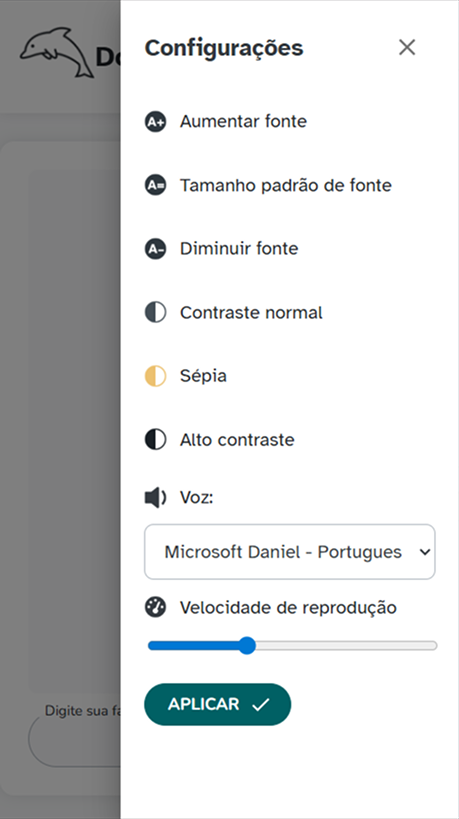
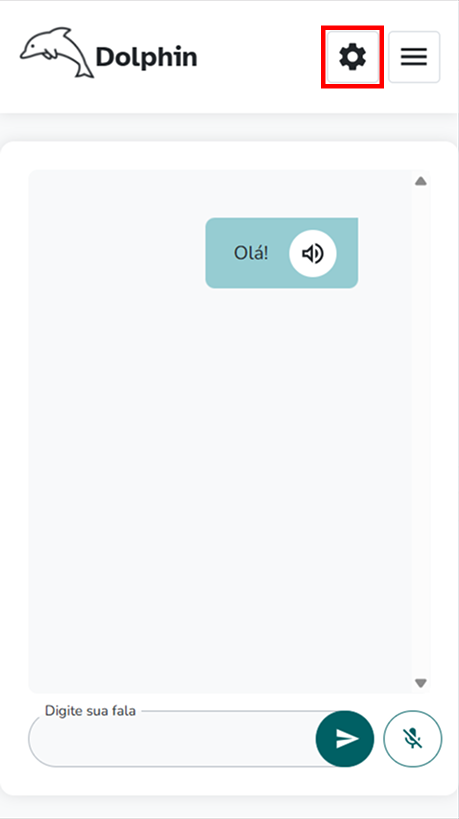
Finalização do manual

diff --git a/manual/index.html b/manual/index.html
@@ -65,25 +65,25 @@
             </div>
         </nav>
 
-        <div class="branding docs-branding">
-            <div class="container-fluid position-relative py-3">
-                <div class="docs-logo-wrapper">
-                    <button id="docs-sidebar-toggler" class="docs-sidebar-toggler docs-sidebar-visible me-2 d-xl-none" type="button">
+        <div class="branding docs-branding position-relative">
+            <div class="container-fluid py-3 d-flex flex-row align-items-center">
+                <div>
+                    <button id="docs-sidebar-toggler" class="docs-sidebar-toggler docs-sidebar-visible me-3 d-xl-none" type="button">
                         <span></span>
                         <span></span>
                         <span></span>
                         <span class="sr-only">Expandir</span>
                     </button>
                 </div>
+                <div class="site-logo align-items-start">
+                    <a class="navbar-brand" href="../">
+                        <img class="logo-icon me-2" src="../img/dolphin.png" width="85px" alt="logomarca do Dolphin em formato de um golfinho">
+                        <span class="h4">Dolphin</span>
+                    </a>
+                </div>
                 <!--//docs-logo-wrapper-->
-                <div class="docs-top-utilities d-flex justify-content-end align-items-center">
+                <div class="docs-top-utilities d-flex justify-content-end align-items-center ms-auto">
                     <!-- <a href="index.html" class="btn btn-secondary d-none d-lg-flex">Voltar para homepage</a> -->
-                    <div class="site-logo align-items-start">
-                        <a class="navbar-brand" href="../">
-                            <img class="logo-icon me-2" src="../img/dolphin.png" width="85px" alt="logomarca do Dolphin em formato de um golfinho">
-                            <span class="h4">Dolphin</span>
-                        </a>
-                    </div>
                     <div class="ms-auto">
                         <a href="/dolphin/dolphin/index.html" class=" ms-3 btn btn-primary d-none d-lg-flex btn-goto-dolphin">Acessar o Dolphin
                             <svg xmlns="http://www.w3.org/2000/svg" width="24" height="24" viewBox="0 0 24 24" fill="none" stroke="currentColor" stroke-width="2" stroke-linecap="round" stroke-linejoin="round" class="feather feather-arrow-right ms-2"><line x1="5" y1="12" x2="19" y2="12"></line><polyline points="12 5 19 12 12 19"></polyline></svg>
@@ -159,7 +159,7 @@
             <h1 class="sr-only">Dolphin - Manuais</h1>
             <article class="docs-article" id="section-1">
                 <header class="docs-header">
-                    <h2 class="docs-heading">Introdução <span class="docs-time">Última atualização: 12/03/2026</span></h2>
+                    <h2 class="docs-heading">Introdução <span class="docs-time">Última atualização: 06/04/2026</span></h2>
                     <section class="docs-intro">
                         <p class="lead-text2">A Ferramenta de comunicação Dolphin foi desenvolvida pelo Centro Tecnológico de Acessibilidade (CTA) com o objetivo de auxiliar pessoas que tenham alguma dificuldade na fala e/ou na audição. A ferramenta possibilita que a pessoa 
                             digite em seu teclado o que deseja comunicar e, ao clicar na opção de “Enviar” da ferramenta, ela irá vocalizar a palavra, frase ou número escrito. Além disso, é possível que a pessoa utilize o botão "Enviar fala" para falar e o que for dito 
@@ -182,51 +182,51 @@
                 </header>
                 <section class="docs-section" id="item-2-1">
                     <h3 class="section-heading">Instalando em Android</h3>
-                    <p class="base-text2">Após acessar a ferramenta em seu dispositivo, clique nos três pontinhos localizados no canto superior direito da barra de navegação conforme a imagem a seguir.</p>
-                    <img src="../img/install-01.png " alt="Dolphin com o menu de três pontinhos marcado " class="img-fluid img-thumbnail ounded mx-auto d-block imginstall ">
+                    <p class="base-text2">Após acessar a ferramenta em seu dispositivo, clique nos três pontinhos localizados no canto superior direito da barra de navegação, conforme a imagem a seguir.</p>
+                    <img src="../img/install-01.png " alt="Dolphin com o menu de três pontinhos marcado " class="img-fluid img-thumbnail ounded mx-auto d-block " width="300px">
                 </section>
                 <!--//section-->
 
                 <section>
                     <p class="base-text2">Após, procure a opção <strong>“Instalar Aplicativo”</strong> ou <strong>“Adicionar à tela inicial”</strong>, conforme mostra a próxima imagem.</p>
-                    <img src="../img/install-02.png " alt="Dolphin com o menu aberto e a opção 'Instalar aplicativo' marcada " class="img-fluid img-thumbnail ounded mx-auto d-block imginstall ">
+                    <img src="../img/install-02.png " alt="Dolphin com o menu aberto e a opção 'Adicionar à tela inicial' marcada " class="img-fluid img-thumbnail ounded mx-auto d-block " width="300px">
                 </section>
                 <!--//section-->
 
                 <section>
                     <p class="base-text2">Ao clicar nesta opção, aparecerá uma janela solicitando a instalação da ferramenta, mostrada na imagem a seguir. Clique em <strong>“Instalar”</strong> e aguarde a finalização do processo.</p>
-                    <img src="../img/install-03.png " alt="Mensagem solicitando se o usuário deseja instalar o Dolphin " class="img-fluid img-thumbnail ounded mx-auto d-block imginstall ">
+                    <img src="../img/install-03.png " alt="Mensagem solicitando se o usuário deseja instalar o Dolphin " class="img-fluid img-thumbnail ounded mx-auto d-block " width="300px">
                 </section>
                 <!--//section-->
 
                 <section>
-                    <p class="base-text2">Pronto! A ferramenta de comunicação Dolphin já está instalada no seu smartphone. Para abrí-lo basta ir até a lista de aplicativos do dispositivo e clicar no ícone do <strong>Dolphin</strong>.</p>
-                    <img src="../img/install-04.png " alt="Menu do celular com o ícone do aplicativo Dolphin instalado " class="img-fluid img-thumbnail ounded mx-auto d-block imginstall ">
+                    <p class="base-text2">Pronto! A ferramenta de comunicação Dolphin já está instalada no seu smartphone. Para abrí-lo, basta ir até a lista de aplicativos do dispositivo e clicar no ícone do <strong>Dolphin</strong>.</p>
+                    <img src="../img/install-04.png " alt="Menu do celular com o ícone do aplicativo Dolphin instalado " class="img-fluid img-thumbnail ounded mx-auto d-block " width="300px">
                 </section>
                 <!--//section-->
 
                 <section class="docs-section" id="item-2-2">
                     <h3 class="section-heading">Instalando em iOS</h3>
-                    <p class="base-text2">Após acessar a ferramenta em seu dispositivo, por meio do safari, clique na seta (<i class="fa-solid fa-arrow-up-from-bracket"></i>) localizada no canto superior direito da barra de navegação conforme a imagem a seguir.</p>
-                    <img src="../img/install-05.jpeg " alt="Dolphin com o menu a seta marcada" class="img-fluid img-thumbnail ounded mx-auto d-block imginstall" style="width: 500px; height: 618px;">
+                    <p class="base-text2">Após acessar a ferramenta em seu dispositivo, por meio do Safari, clique na seta (<i class="fa-solid fa-arrow-up-from-bracket"></i>) localizada no canto inferior da barra de navegação, conforme a imagem a seguir.</p>
+                    <img src="../img/install-05.png " alt="Dolphin com o menu a seta marcada" class="img-fluid img-thumbnail ounded mx-auto d-block" width="300px">
                 </section>
                 <!--//section-->
 
                 <section>
-                    <p class="base-text2">Após, procure a opção “Adicionar a Tela de Início”, conforme mostra a próxima imagem.</p>
-                    <img src="../img/install-06.jpeg " alt="Dolphin com o menu aberto e a opção 'Adicionar a Tela de Início' marcada " class="img-fluid img-thumbnail ounded mx-auto d-block imginstall " style="width: 500px; height: 618px;">
+                    <p class="base-text2">Após, procure a opção <strong>“Adicionar à Tela de Início”</strong>, conforme mostra a próxima imagem.</p>
+                    <img src="../img/install-06.png " alt="Dolphin com o menu aberto e a opção 'Adicionar a Tela de Início' marcada " class="img-fluid img-thumbnail ounded mx-auto d-block" width="300px">
                 </section>
                 <!--//section-->
 
                 <section>
-                    <p class="base-text2">Ao clicar nesta opção, aparecerá uma janela avisando que a ferramenta será adicionada a tela inicial, como mostra a imagem a seguir. Clique em “Adicionar” e aguarde a finalização do processo.</p>
-                    <img src="../img/install-07.jpeg " alt="Mensagem solicitando se o usuário deseja instalar o Dolphin e  opção 'Adicionar' marcada" class="img-fluid img-thumbnail ounded mx-auto d-block imginstall " style="width: 500px; height: 618px;">
+                    <p class="base-text2">Ao clicar nesta opção, aparecerá uma janela avisando que a ferramenta será adicionada à tela inicial, como mostra a imagem a seguir. Clique em <strong>“Adicionar”</strong> e aguarde a finalização do processo.</p>
+                    <img src="../img/install-07.png " alt="Mensagem solicitando se o usuário deseja instalar o Dolphin e  opção 'Adicionar' marcada" class="img-fluid img-thumbnail ounded mx-auto d-block" width="300px">
                 </section>
                 <!--//section-->
 
                 <section>
-                    <p class="base-text2">Pronto! A ferramenta de comunicação Dolphin já está instalada no seu smartphone. Para abrí-lo basta ir até a lista de aplicativos do dispositivo e clicar no ícone do Dolphin.</p>
-                    <img src="../img/install-08.jpeg " alt="Menu do celular com o ícone do aplicativo Dolphin instalado " class="img-fluid img-thumbnail ounded mx-auto d-block imginstall " style="width: 500px; height: 618px;">
+                    <p class="base-text2">Pronto! A ferramenta de comunicação Dolphin já está instalada no seu smartphone. Para abrí-lo, basta ir até a lista de aplicativos do dispositivo e clicar no ícone do Dolphin.</p>
+                    <img src="../img/install-08.png " alt="Menu do celular com o ícone do aplicativo Dolphin instalado " class="img-fluid img-thumbnail ounded mx-auto d-block" width="300px">
                 </section>
                 <!--//section-->
 
@@ -239,7 +239,7 @@
                 <header class="docs-header ">
                     <h2 class="docs-heading">Manual de uso</h1>
                         <section class="docs-intro ">
-                            <p class="lead-text2">Pelo fato da ferramenta de comunicação Dolphin poder ser usado em dispositivos móveis e em computadores apresentamos a seguir os manuais de uso para cada um dos casos.
+                            <p class="lead-text2">Pelo fato da ferramenta de comunicação Dolphin poder ser usada em dispositivos móveis e em computadores, apresentamos a seguir os manuais de uso para cada um dos casos.
                             </p>
                         </section>
                         <!--//docs-intro-->
@@ -248,27 +248,31 @@
                     <h3 class="section-heading">Utilizando em dispositivos móveis</h2>
                         <p class="base-text2">O Dolphin é bastante simples de utilizar. Após abrir o aplicativo, a pessoa deverá escrever o que deseja comunicar e, em seguida, clicar na opção <strong>"Enviar"</strong>, representada pelo ícone de avião de papel, ou pressionar a tecla <strong>"Enter"</strong> de seu teclado. Ao clicar nesta opção, a ferramenta irá vocalizar a palavra ou frase digitada. A imagem a seguir mostra a localização da opção Enviar.
                         </p>
-                        <img src="../img/usage-01.png " width="300px" alt="Aplicativo Dolphin com o botão 'Falar' marcado " class="img-fluid img-thumbnail ounded mx-auto d-block ">
+                        <img src="../img/usage-01.png " width="300px" alt="Aplicativo Dolphin com o botão 'Enviar' marcado " class="img-fluid img-thumbnail ounded mx-auto d-block ">
                         <p class="mt-4 base-text2">Caso deseje realizar a conversão de fala para texto, ative a opção do Microfone (<i class="fas fas fas fa-microphone-slash "></i>) indicado na imagem a seguir e comunique por meio da fala o que deseja comunicar para que a ferramenta
                             transforme sua fala em texto.</p>
-                        <img src="../img/usage-02.png " width="300px" alt="Aplicativo Dolphin com o microfone marcado " class="img-fluid img-thumbnail ounded mx-auto d-block ">
+                        <img src="../img/usage-02.png " width="300px" alt="Aplicativo Dolphin com o botão 'Enviar fala' marcado " class="img-fluid img-thumbnail ounded mx-auto d-block ">
+                        <p class="mt-4 base-text2">Também é possível ouvir novamente uma mensagem já enviada clicando no ícone de alto-falante que aparece em todas as mensagens, como mostra na imagem a seguir.</p>
+                        <img src="../img/usage-03.png " width="300px" alt="Aplicativo Dolphin com o botão 'Reproduzir áudio', representado por um alto-falante, marcado " class="img-fluid img-thumbnail ounded mx-auto d-block ">
                         <p class="mt-4 base-text2">A ferramenta de comunicação conta ainda com os seguintes recursos: <strong>Alteração do tamanho da fonte</strong>, <strong>Contraste Normal</strong>, <strong>Modo Sépia</strong>, <strong>Alto Contraste</strong>, <strong>seleção de voz</strong> e <strong>velocidade de reprodução</strong> da voz selecionada.
                             Esses recursos podem ser acessados clicando-se no ícone de
                             <strong>"menu de configurações"</strong> localizado na parte superior direita do aplicativo.
                         </p>
-                        <img src="../img/usage-03.png " width="300px" alt="Aplicativo Dolphin com o menu marcado " class="img-fluid img-thumbnail ounded mx-auto d-block ">
+                        <img src="../img/usage-04.png " width="300px" alt="Aplicativo Dolphin com o menu de configurações marcado " class="img-fluid img-thumbnail ounded mx-auto d-block ">
                         <p class="mt-4 base-text2">Ao clicar no ícone de <strong>"menu de configurações"</strong>, será aberta uma barra contendo os recursos do aplicativo, conforme mostrado na imagem a seguir.</p>
-                        <img src="../img/usage-04.png " width="300px" alt="Aplicativo Dolphin exibindo o menu com os dois recursos 'Alto contraste' e 'Sépia' " class="img-fluid img-thumbnail ounded mx-auto d-block ">
+                        <img src="../img/usage-05.png " width="300px" alt="Aplicativo Dolphin exibindo o menu de configurações com os recursos de tamanho de fonte, modos de contraste e modos de voz" class="img-fluid img-thumbnail ounded mx-auto d-block ">
                         <p class="mt-4 base-text2">Na primeira seção do menu, são encontrados os botões para alterar o tamanho da fonte para maior, menor ou restaurar o tamanho padrão.</p>
                         <p class="mt-4 base-text2">Na segunda seção do menu, são encontrados os modos de contraste. O primeiro item é o <strong>"Contraste Normal"</strong>. Esse modo apresenta a interface com cores padrão, mantendo o fundo claro e os caracteres escuros.
                         </p>
-                        <img src="../img/usage-05.png " width="300px" alt="Aplicativo Dolphin exibido no modo 'Normal' " class="img-fluid img-thumbnail ounded mx-auto d-block ">
-                        <p class="mt-4 base-text2">O segundo item é o modo <strong>"Sépia"</strong>. Esse modo aplica um filtro sépia à interface, suavizando o contraste entre fundo e texto, o que pode proporcionar maior conforto visual em uso prolongado. A próxima imagem mostra a farramenta Dolphin com o modo "Sépia" ativado.
+                        <img src="../img/usage-06.png " width="300px" alt="Aplicativo Dolphin exibido no modo 'Normal' " class="img-fluid img-thumbnail ounded mx-auto d-block ">
+                        <p class="mt-4 base-text2">O segundo item é o modo <strong>"Sépia"</strong>. Esse modo aplica um filtro sépia à interface, suavizando o contraste entre fundo e texto, o que pode proporcionar maior conforto visual em uso prolongado. A próxima imagem mostra a ferramenta Dolphin com o modo "Sépia" ativado.
                         </p>
-                        <img src="../img/usage-06.png " width="300px" alt="Aplicativo Dolphin exibido em 'Sépia' " class="img-fluid img-thumbnail ounded mx-auto d-block ">
+                        <img src="../img/usage-07.png " width="300px" alt="Aplicativo Dolphin exibido em 'Sépia' " class="img-fluid img-thumbnail ounded mx-auto d-block ">
                         <p class="mt-4 base-text2">O terceiro item é o <strong>"Alto contraste"</strong>. Esse modo inverte o esquema de cores, fazendo com que o fundo fique preto e os caracteres fiquem brancos. A próxima imagem mostra a ferramenta Dolphin com o modo "Alto Contraste" ativado.
                         </p>
-                        <img src="../img/usage-07.png " width="300px" alt="Aplicativo Dolphin exibido em 'Alto contraste' " class="img-fluid img-thumbnail ounded mx-auto d-block ">
+                        <img src="../img/usage-08.png " width="300px" alt="Aplicativo Dolphin exibido em 'Alto contraste' " class="img-fluid img-thumbnail ounded mx-auto d-block ">
+                        <p class="mt-4 base-text2">Na terceira seção do menu, encontram-se as opções de <strong>selecionar voz</strong> e alterar a <strong>velocidade de reprodução</strong> da mesma. É necessário clicar no botão <strong>"Aplicar"</strong> para que estas alterações sejam aplicadas.</p>
+                        <img src="../img/usage-09.png " width="300px" alt="Aplicativo Dolphin com as opções de seleção de voz, velocidade de reprodução e botão 'Aplicar' marcados" class="img-fluid img-thumbnail ounded mx-auto d-block ">
 
                 </section>
                 <!--//section-->
@@ -278,6 +282,7 @@
                     <p class="base-text2">Para usar o Dolphin no computador, você deve abrir um navegador de Internet e acessar a página da versão online da ferramenta Dolphin. As funcionalidades e configurações são as mesmas que as presentes quando instalado em um dispositivo
                         móvel.
                     </p>
+                    <img src="../img/usage-10.png " alt="Aplicativo Dolphin em tela de computador" class="img-fluid img-thumbnail ounded mx-auto d-block ">
                 </section>
                 <!--//section-->
             </article>
@@ -297,7 +302,7 @@
                         </li>
                         <li class="list-inline-item "><a href="http://fb.com/cta-ifrs "><span class="sr-only ">Facebook
                                     do CTA</span><i class="fab fa-facebook-f fa-fw "></i></a></li>
-                        <li class="list-inline-item "><a href="http://instagram.com/cta.ifrs "><span
+                        <li class="list-inline-item "><a href="http://instagram.com/ctaifrs "><span
                                     class="sr-only ">Instagram do CTA</span><i class="fab fa-instagram fa-fw "></i></a>
                         </li>
                     </ul>

diff --git a/css/high_contrast.css b/css/high_contrast.css
@@ -9,7 +9,8 @@
     .alto-contraste nav,
     .alto-contraste p,
     .alto-contraste .branding.docs-branding,
-    .alto-contraste .docs-sidebar {
+    .alto-contraste .docs-sidebar,
+    .alto-contraste .bg-dark.navbar-toggler {
         color: #ffffff !important;
         background-color: #000000 !important;
     }
@@ -50,7 +51,8 @@
     .alto-contraste .btn-primary,
     .alto-contraste .btn-dark,
     .alto-contraste span.badge,
-    .alto-contraste .navbar-toggler {
+    .alto-contraste .navbar-toggler,
+    .alto-contraste .docs-sidebar-toggler span {
         background-color: #ffffff !important;
         color: #000000 !important;
     }
@@ -81,7 +83,8 @@
         border: 1px #026E81 solid !important;
     }
 
-    .alto-contraste .navbar-light .navbar-brand {
+    .alto-contraste .navbar-light .navbar-brand,
+    .alto-contraste .navbar-brand .logo-icon {
         filter: brightness(10);
     }
 
@@ -110,6 +113,7 @@
     .alto-contraste h4,
     .alto-contraste h5,
     .alto-contraste h6,
-    .alto-contraste .base-text2 {
-        color: var(--white);
+    .alto-contraste .base-text2,
+    .alto-contraste .docs-article .docs-time {
+        color: var(--white) !important;
     }

diff --git a/css/custom.css b/css/custom.css
@@ -255,9 +255,14 @@ body {
   color: #54595E !important;
   border-color: var(--gray400) !important;
 }
-.navbar-toggler-icon {
+.navbar-toggler-icon:not(.bg-dark .navbar-toggler-icon) {
     filter: brightness(0);
 }
 .text-gray700 {
     color: var(--gray700);
+}
+.fa-sr-only, .sr-only {
+    position: absolute !important;
+    width: 1px !important;
+    height: 1px !important;
 }
